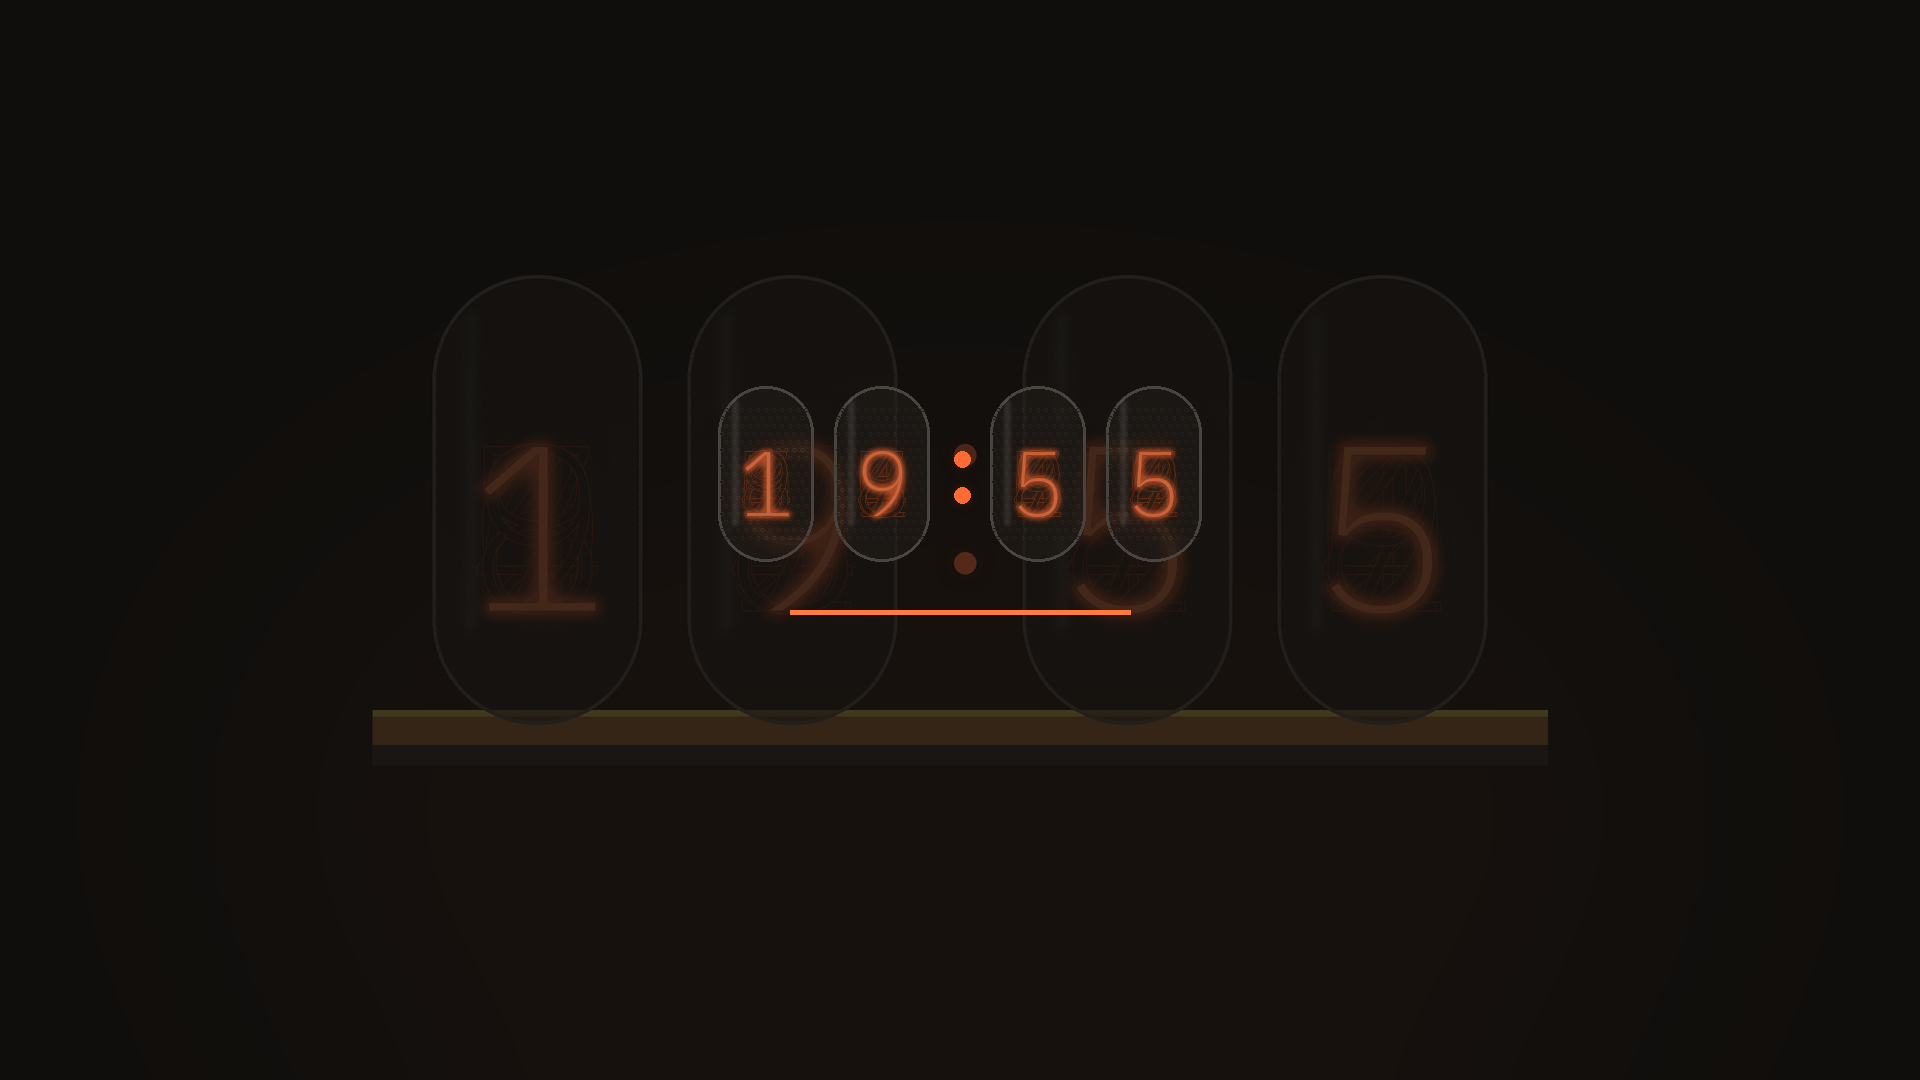
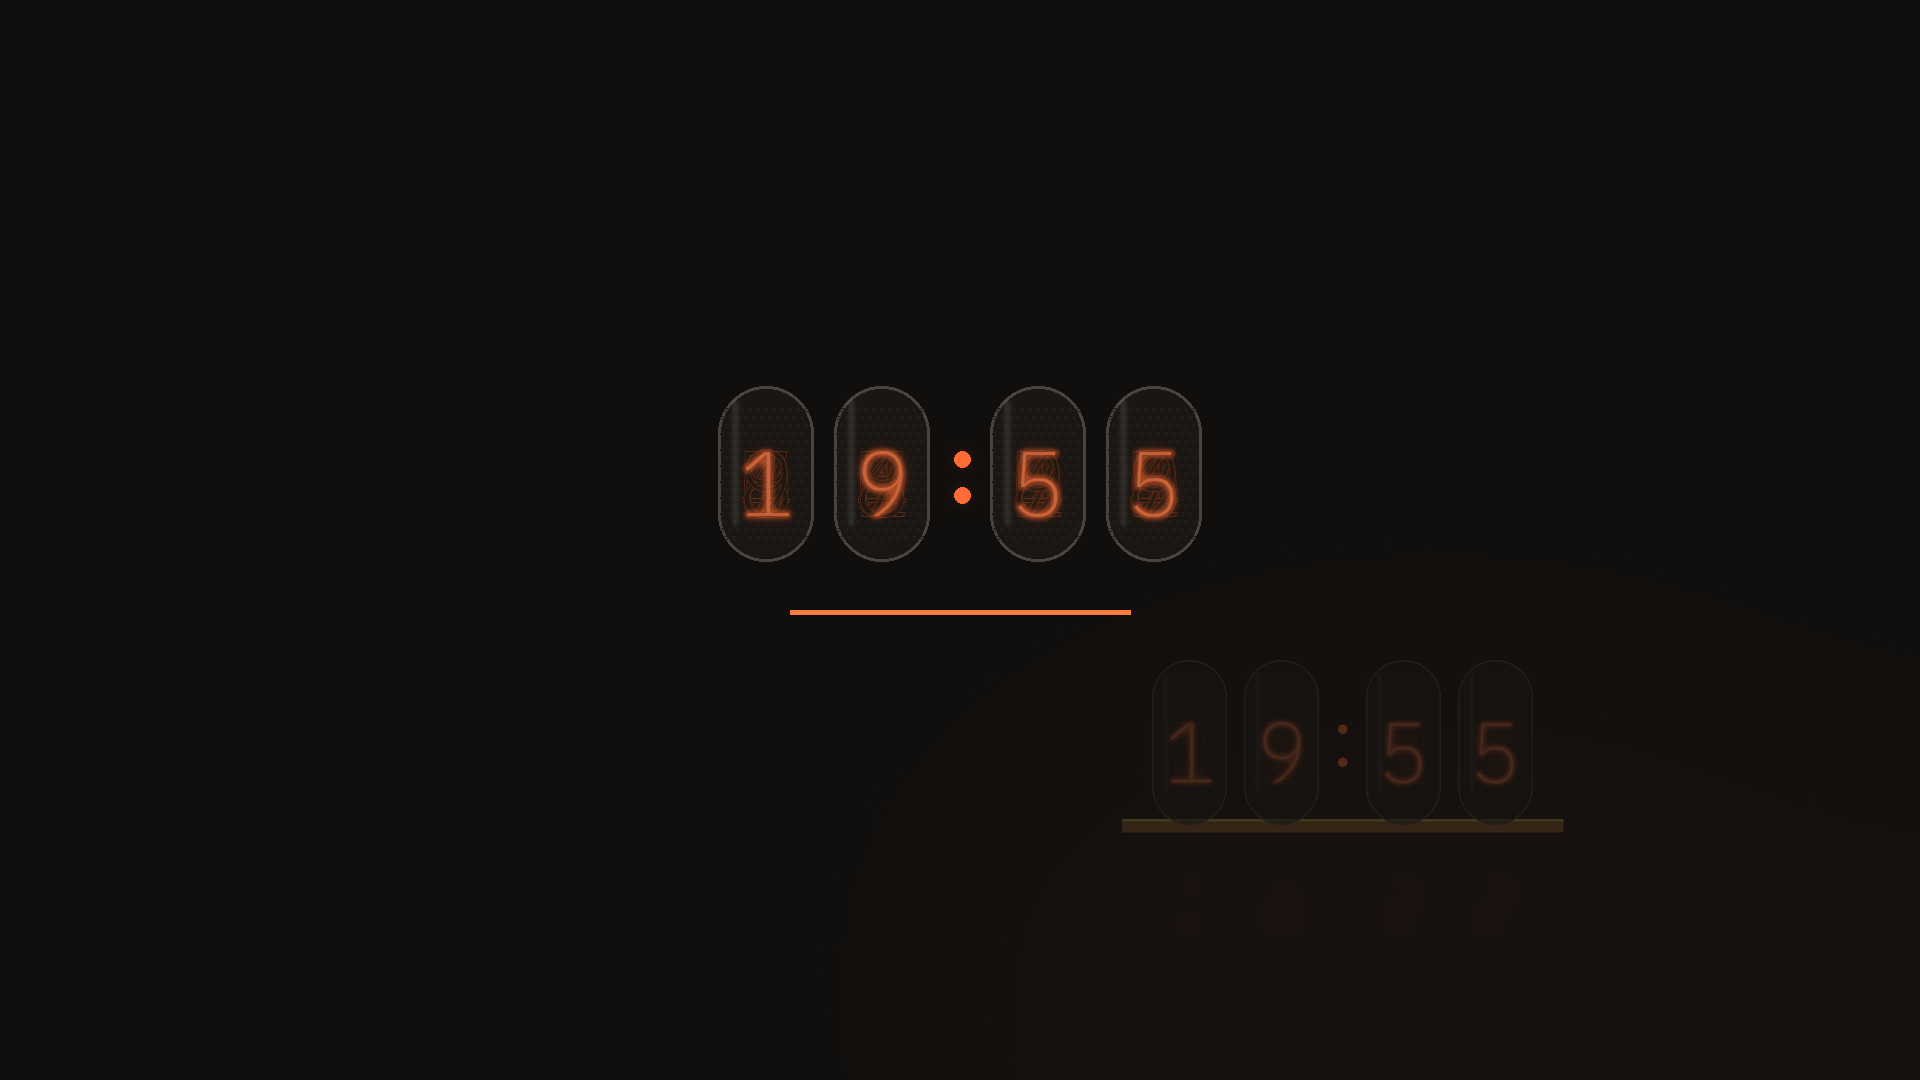
Calmer wallpapers: small tubes low on the right, and a bokeh glow

diff --git a/README.md b/README.md
@@ -20,8 +20,8 @@ omarchy theme install https://github.com/squatchware/omarchy-nixie-theme
   generated by Omarchy from `colors.toml`. Every text colour clears 4.5:1 on its background.
 - **Wallpapers** in the machine's own palette and drawing style, at today's pixel density, with
   room left for your windows:
-- `01-tubes.jpg`
-- `02-cathode.jpg`
+- `01-clock.jpg`
+- `02-glow.jpg`
 - **Boot splash and lock screen** (`unlock.png`): the machine's own start-up screen.
 - **Screensaver** art (`screensaver.txt`), animated by Omarchy's screensaver.
 
